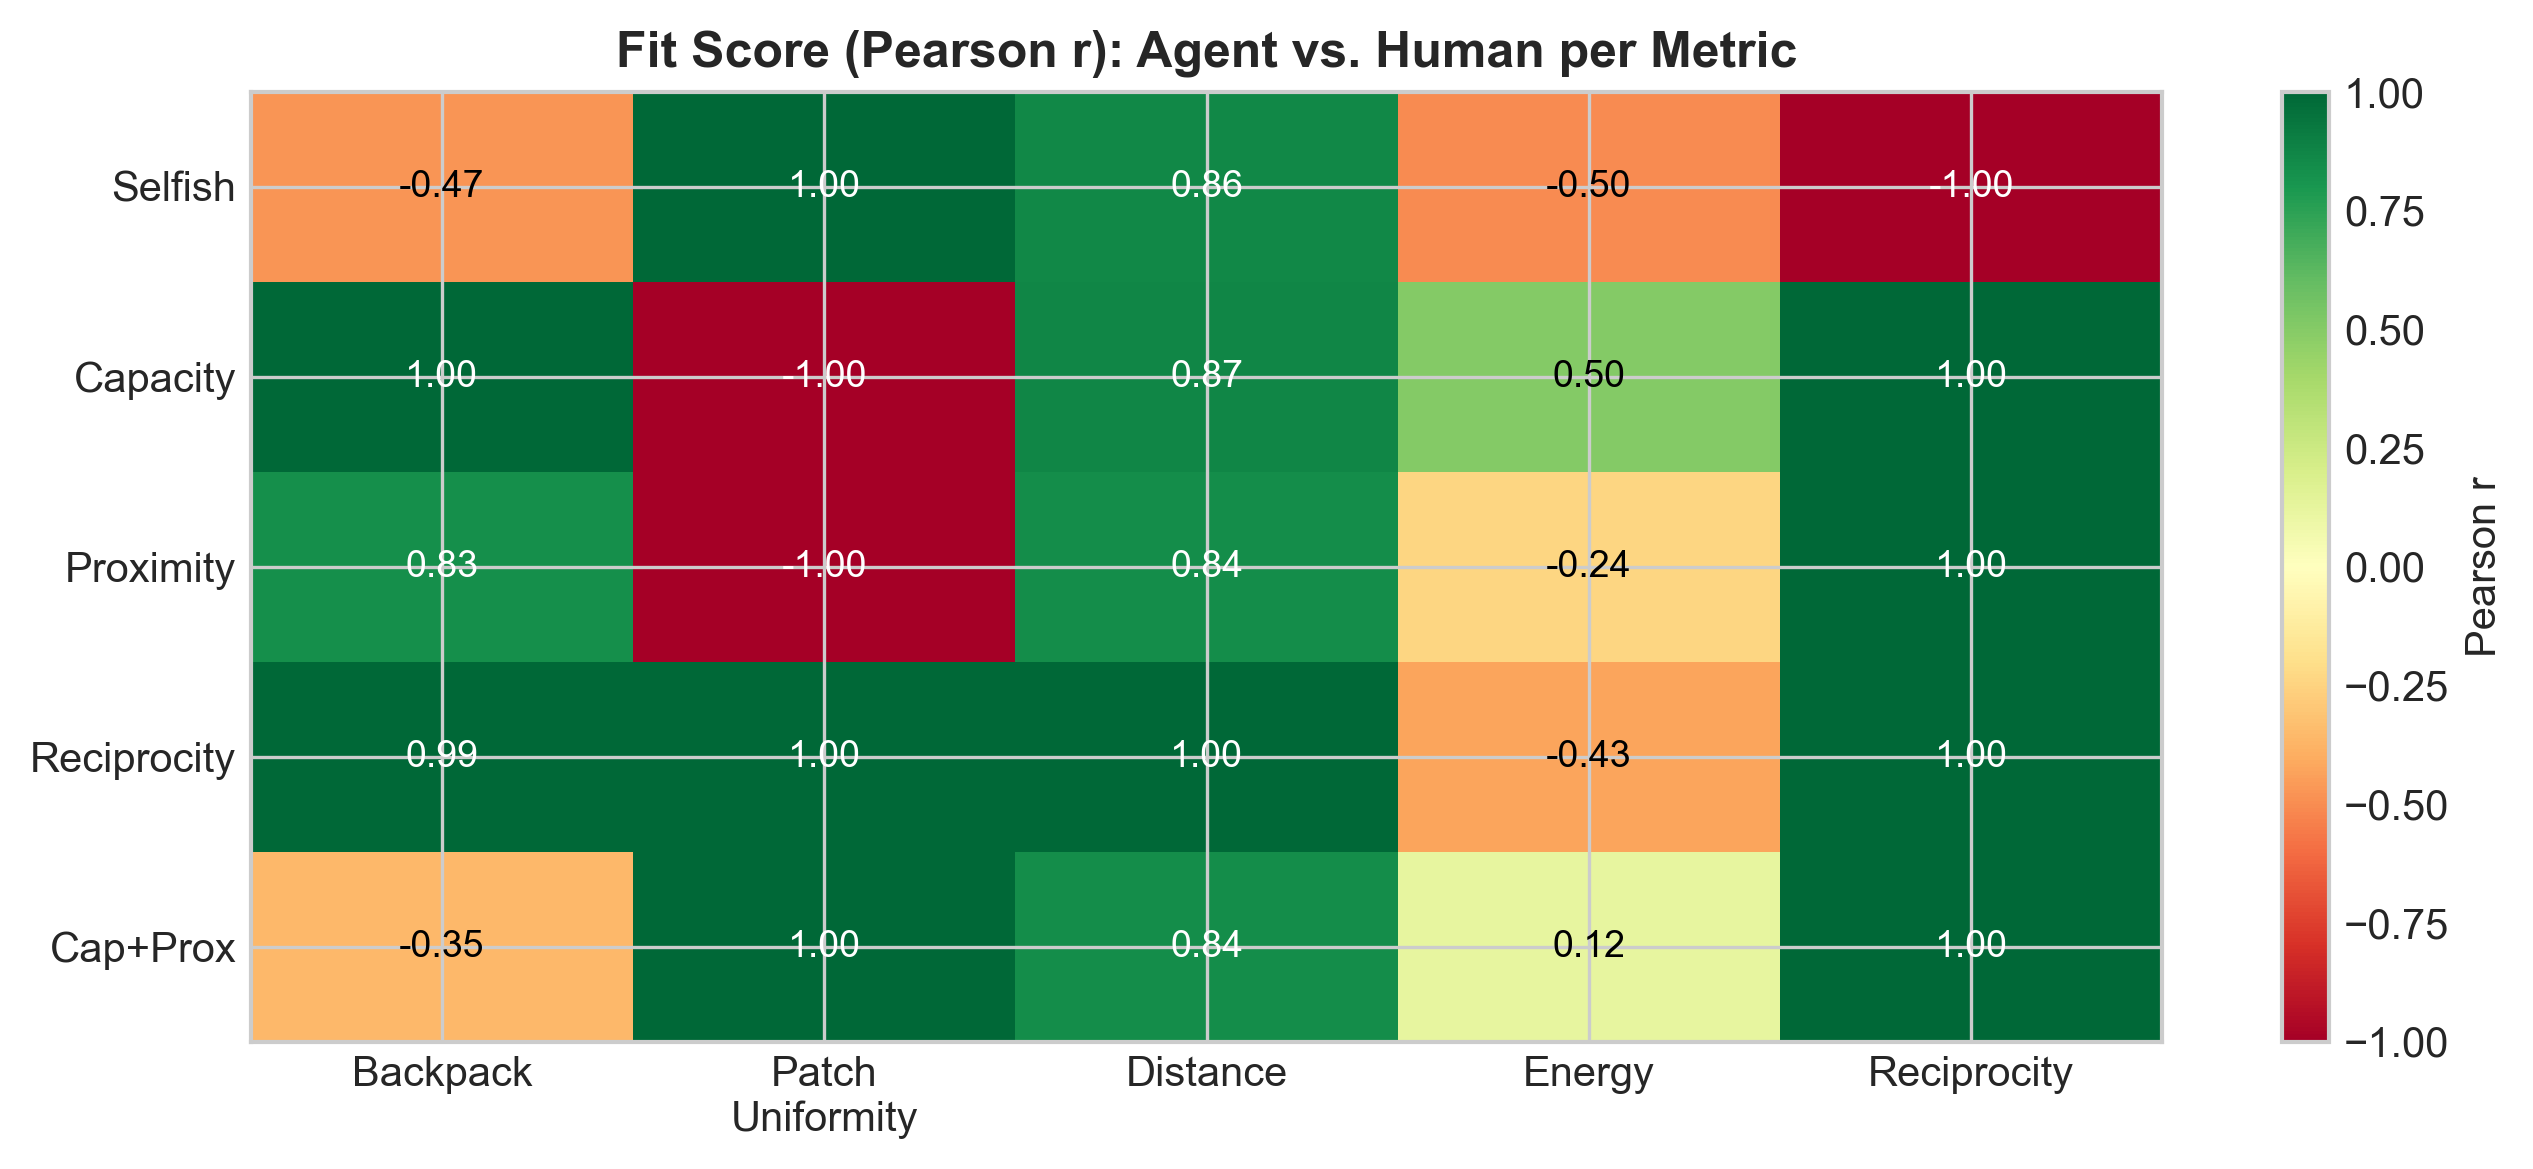
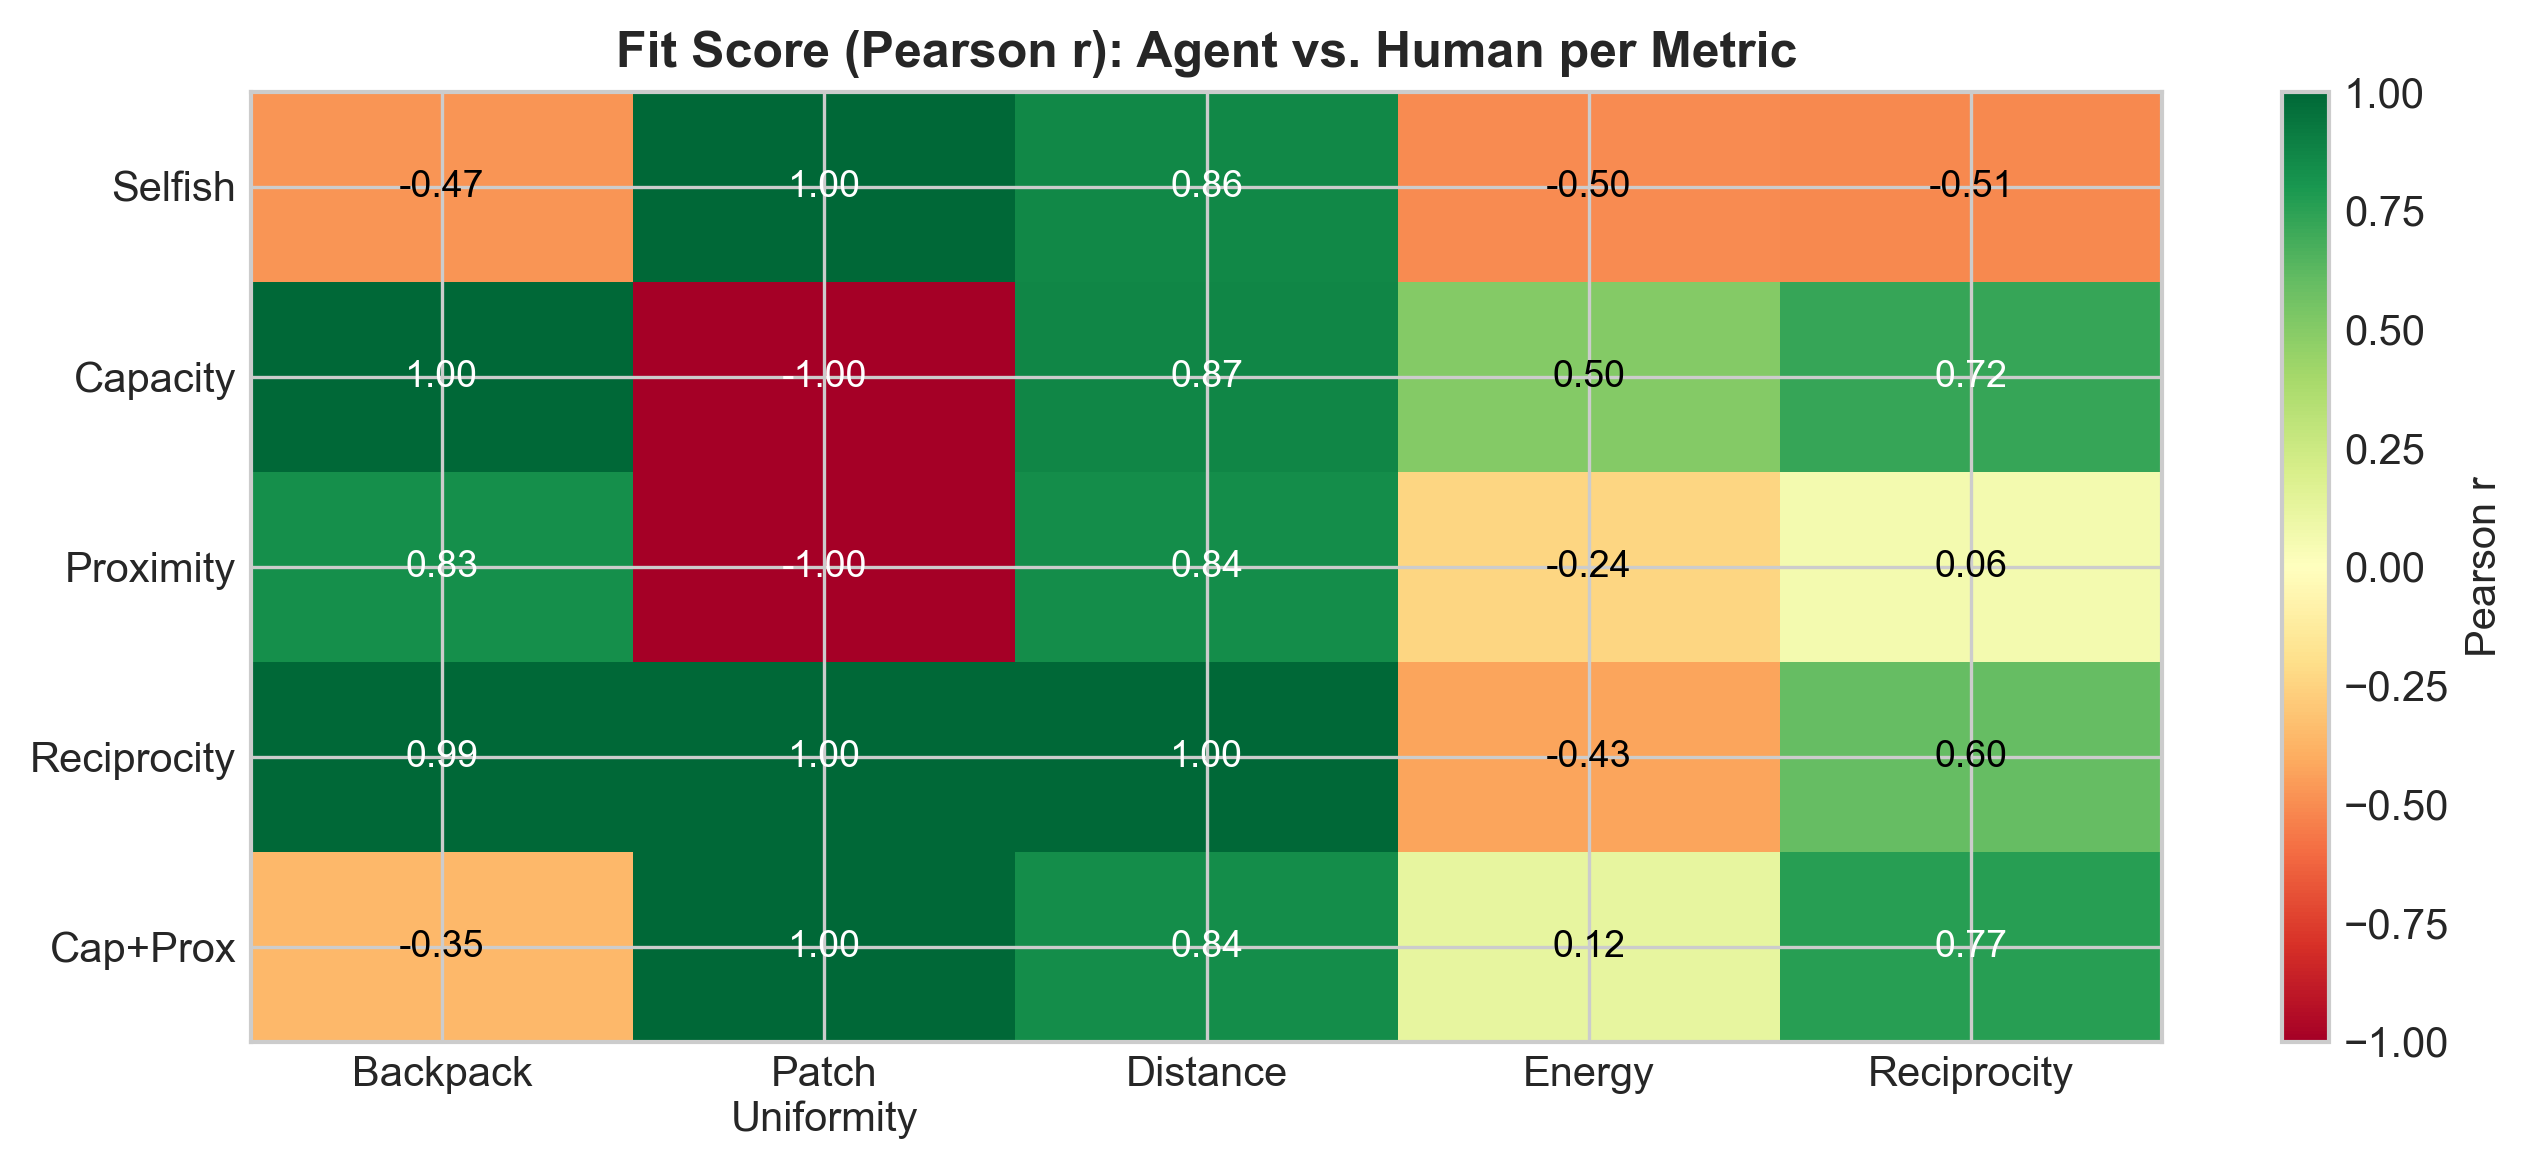
Fix overall helping rate baseline and metric 5 fit score

Changed region(s): [[0.6861, 0.0616, 0.8733, 0.8931]]

diff --git a/modeling/plot_results.py b/modeling/plot_results.py
@@ -251,25 +251,28 @@ def plot_metric_5(tag=""):
 
 
 def plot_overall_helping_rate(tag=""):
-    human_rate = None
-    agent_rates = {}
-    for m in REWARD_MODES:
-        df = load_metric_csv(1, m, tag)
-        if df is not None:
-            agent_rates[m] = df['agent_helping_rate'].mean()
-            if human_rate is None:
-                human_rate = df['human_helping_rate'].mean()
-    if not agent_rates:
-        print("No data for overall helping rate plot.")
-        return
+    # True human baseline: mean over all red-player, non-gameover turns
+    human_df = pd.read_csv("../data/trialdf.csv")
+    human_df["agent_color"] = human_df["subjid"].str.extract(r"(red|purple)$")
+    human_df = human_df[(human_df["agent_color"] == "red") & (human_df["gameover"] == False)]
+    human_rate = human_df["helping_event"].mean()
+
+    overall_path = f"results/overall_helping_rate{'_' + tag if tag else ''}.csv"
+    if os.path.exists(overall_path):
+        odf = pd.read_csv(overall_path).drop_duplicates("reward_mode", keep="last")
+        agent_rates = dict(zip(odf["reward_mode"], odf["agent_rate"]))
+    else:
+        agent_rates = {m: load_metric_csv(1, m, tag)['agent_helping_rate'].mean()
+                       for m in REWARD_MODES if load_metric_csv(1, m, tag) is not None}
+
+
     labels = [get_reward_mode_title(m) for m in REWARD_MODES if m in agent_rates]
     values = [agent_rates[m] for m in REWARD_MODES if m in agent_rates]
     fig, ax = plt.subplots(figsize=(8, 5))
     x = np.arange(len(labels))
     bars = ax.bar(x, values, color=AGENT_COLOR, label='Agent')
-    if human_rate is not None:
-        ax.axhline(human_rate, color='lightcoral', linestyle='--', linewidth=2,
-                   label=f'Human ({human_rate:.3f})')
+    ax.axhline(human_rate, color='lightcoral', linestyle='--', linewidth=2,
+               label=f'Human ({human_rate:.3f})')
     for bar, val in zip(bars, values):
         ax.text(bar.get_x() + bar.get_width() / 2, bar.get_height() + 0.002,
                 f'{val:.3f}', ha='center', va='bottom', fontsize=9)
@@ -277,7 +280,7 @@ def plot_overall_helping_rate(tag=""):
     ax.set_ylabel('Overall Helping Rate')
     ax.set_title('Overall Helping Rate: Agent vs. Human Baseline')
     ax.legend()
-    ax.set_ylim(0, max(values + ([human_rate] if human_rate else [])) * 1.2)
+    ax.set_ylim(0, max(values + [human_rate]) * 1.2)
     plt.tight_layout()
     path = os.path.join(FIGURE_DIR, 'fig_overall_helping_rate.png')
     plt.savefig(path, dpi=300, bbox_inches='tight'); print(f"Saved {path}"); plt.close()
@@ -294,7 +297,8 @@ def plot_fit_scores(tag=""):
             if df is None or len(df) < 2:
                 row.append(np.nan); continue
             if n == 5:
-                df = df.groupby('partner_helped_last')[['agent_helping_rate', 'human_helping_rate']].mean().reset_index()
+            # Don't collapse — sort to align points and use full 20-row vector
+                df = df.sort_values(['partner_helped_last', 'turn']).reset_index(drop=True)
             av, hv = df['agent_helping_rate'].values, df['human_helping_rate'].values
             if len(av) < 2 or np.std(av) == 0 or np.std(hv) == 0:
                 row.append(np.nan)

diff --git a/modeling/evaluate.py b/modeling/evaluate.py
@@ -513,6 +513,13 @@ def evaluate_agent(reward_mode: str, output_dir: str = "models", tag: str = ""):
     logger.info(f"Agent overall helping rate: {agent_help_rate:.3f}")
     logger.info(f"Human overall helping rate: {human_help_rate:.3f}")
     logger.info(f"Difference: {agent_help_rate - human_help_rate:.3f}")
+    # Save overall rate for plotting
+    overall_path = f"results/overall_helping_rate{suffix}.csv"
+    write_header = not os.path.exists(overall_path)
+    with open(overall_path, "a") as f:
+        if write_header:
+            f.write("reward_mode,agent_rate,human_rate\n")
+        f.write(f"{reward_mode},{agent_help_rate:.6f},{human_help_rate:.6f}\n")
 
 
 def main():
